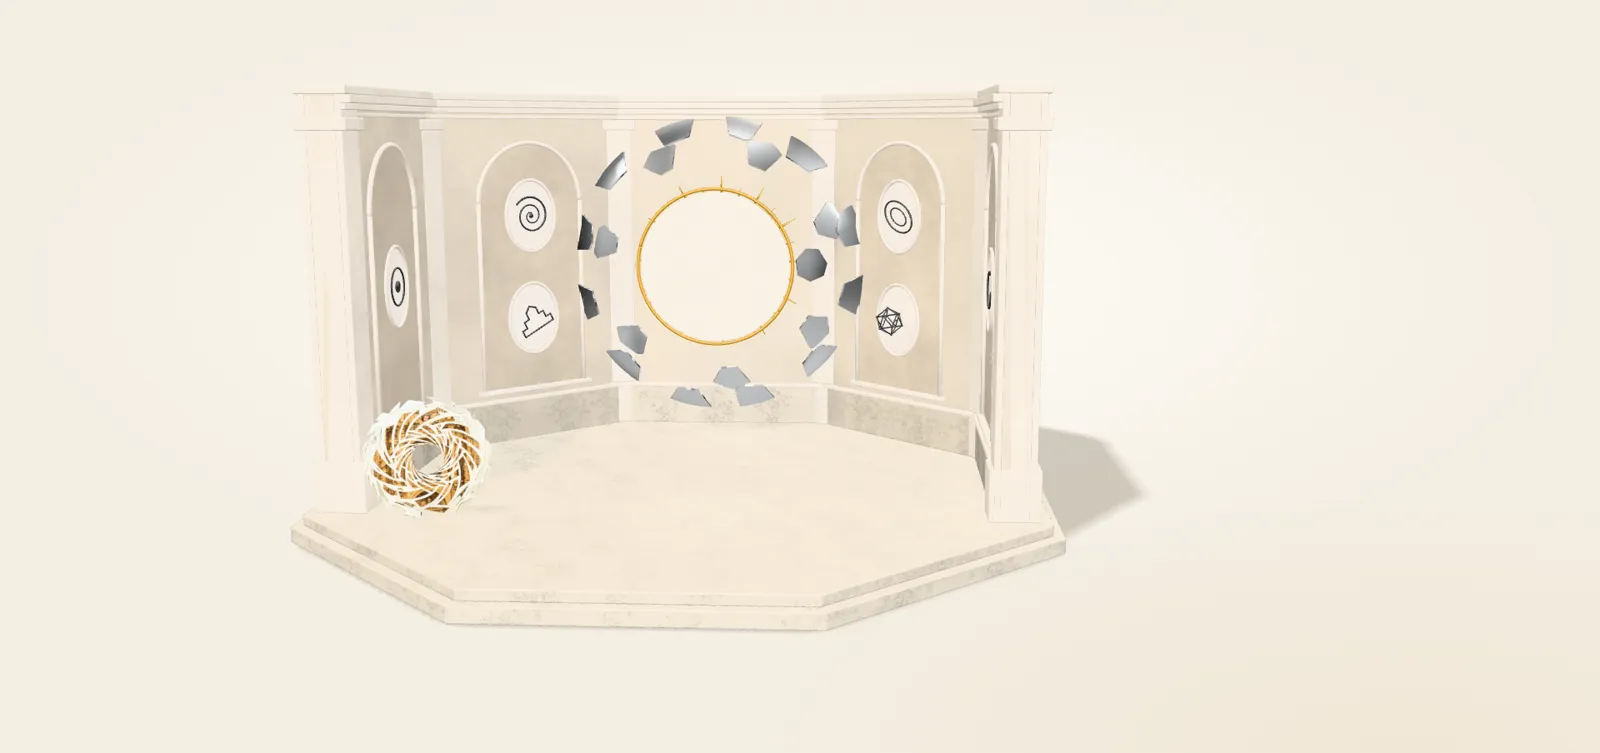
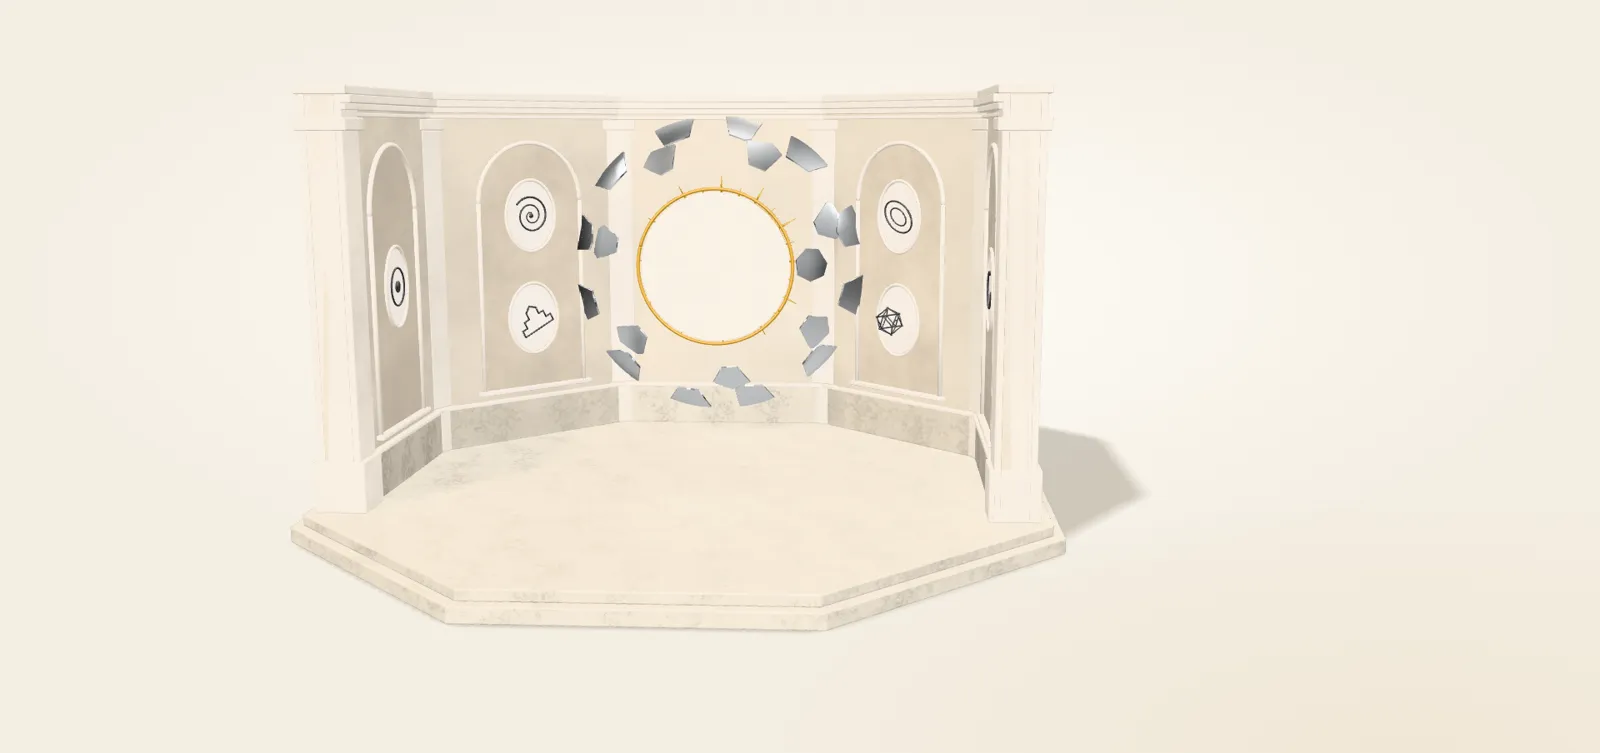
Neobarroco: imagen del trono vacío; espejo 3D sin la figura de fragmentos repetida

Changed region(s): [[0.2188, 0.5193, 0.3125, 0.7025]]

diff --git a/docs/index.html b/docs/index.html
@@ -504,7 +504,7 @@
     </div>
     <div class="col">
       <figure class="marco-img" style="height:860px;margin:0">
-        <img data-src="img/nb-12-espejo.webp" alt="Imagen generada con IA: espejo convexo que estalla en esquirlas alrededor de un centro vacío, con reflejos dorados y cian">
+        <img data-src="img/nb-12-trono.webp" alt="Imagen generada con IA: trono barroco dorado vacío; una pantalla de seda tapa a medias un hueco oscuro y fragmentos de espejo giran alrededor">
       </figure>
     </div>
   </div>
@@ -587,7 +587,7 @@
     <p><b>Texto.</b> Severo Sarduy, «El barroco y el neobarroco» (1972), en C. Fernández Moreno (coord.), <i>América Latina en su literatura</i>, Siglo XXI/UNESCO. Ed. con apostillas de Valentín Díaz, El Cuenco de Plata, 2011. Citas breves con fines docentes.</p>
     <p><b>Figuras 1-3.</b> Reconstrucción según Sarduy 1972 (SVG propios).</p>
     <p><b>Esquemas 3D.</b> Modelados con scripts de Blender 5.2 y mostrados con three.js (MIT). Dispositivos genéricos: no reproducen obras de ningún artista; las láminas que aparecen dentro de ellos se generaron con IA (✦).</p>
-    <p><b>Imágenes generadas con IA</b> (✦). Gemini · Nano Banana 2: perla, jardín, festín, halcón, patio de Carpentier, islas, filigrana, azabache, espejo, capitel y las láminas de los esquemas 3D. Evocaciones; no reproducen ninguna obra.</p>
+    <p><b>Imágenes generadas con IA</b> (✦). Gemini · Nano Banana 2: perla, jardín, festín, halcón, patio de Carpentier, islas, filigrana, azabache, trono, capitel y las láminas de los esquemas 3D. Evocaciones; no reproducen ninguna obra.</p>
     <p><b>Dominio público (Wikimedia Commons).</b> Caravaggio, <i>Madonna di Loreto</i>; Leonardo, <i>Virgen de las Rocas</i> (det.); Kepler, <i>Astronomia nova</i>; Harvey, <i>De motu cordis</i>; Hals, <i>Descartes</i>; Velázquez, <i>Góngora</i>; Borromini, planta de San Carlo (Albertina); Blaeu, <i>Tabula Magellanica</i>; Holbein, <i>Los embajadores</i>; Bruegel, <i>Combate entre Carnaval y Cuaresma</i>; Van Eyck, <i>Arnolfini</i>; Velázquez, <i>Las Meninas</i>; Tenniel, Alicia.</p>
     <p><b>Licencias libres.</b> Retablo de San Esteban (Salamanca): foto Zarateman, CC0 · Rueda de libros: CC0 · Cúpula de San Carlo alle Quattro Fontane: Fiat 500e, CC BY-SA 4.0.</p>
     <p><b>Bibliografía citada.</b> Agamben, «¿Qué es un paradigma?» (2009) · Barthes, «La cara barroca» · Carrera, «Todo sobre el neobarroco» (2009) · D’Ors, <i>Lo barroco</i> · H. de Campos, «Barroco, Neobarroco, Transbarroco» (2004) · Gilman, <i>Entre la pluma y el fusil</i> (2003) · Guerrero, «Sarduy: la religión del vacío» (2002) · Lacan, «Del barroco», <i>Seminario XX</i> · Sarduy, <i>Obra completa</i> (1999).</p>
